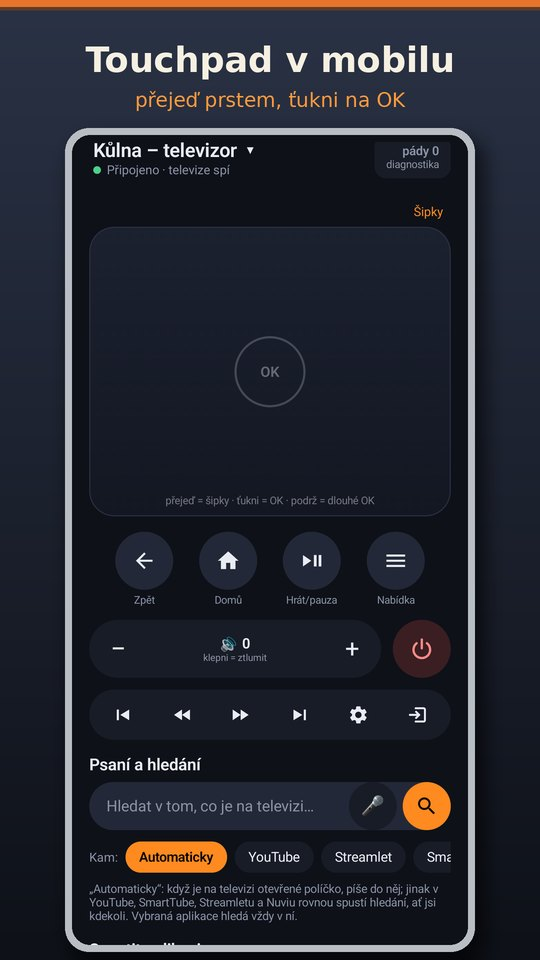
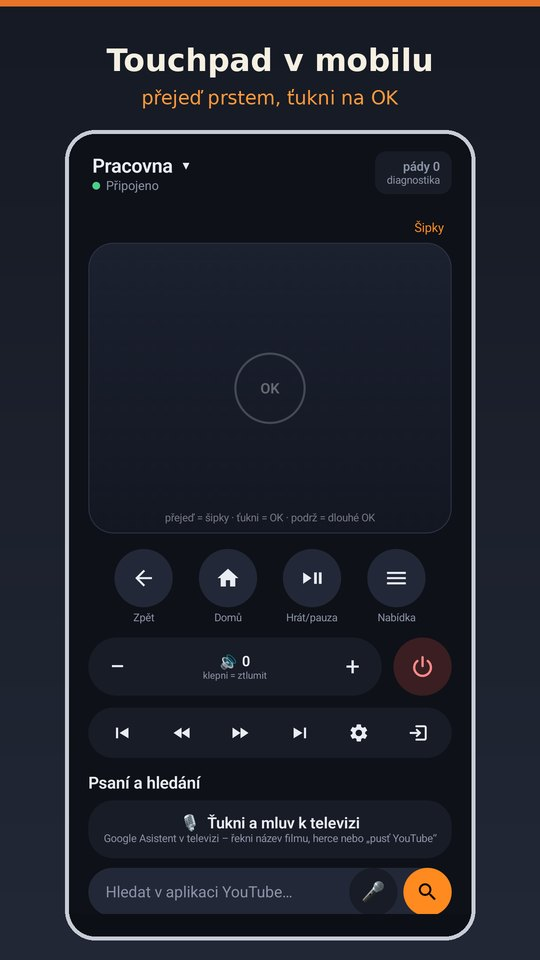
Nove snimky obrazovky z verze 0.38 (bez Streamletu a Nuvia)
Claude-Session: https://claude.ai/code/session_01KJu49yhVo3MkmWoEbwK1KY

diff --git a/index.html b/index.html
@@ -58,7 +58,11 @@
     fungují normálně. Mají ale vlastní klávesnici na obrazovce, kam psaní z mobilu nedosáhne, a hledání z Telky do nich
     neskočí. Hledat v nich proto nejlíp hlasem – <b>Ťukni a mluv</b> a Asistent v televizi to najde.</div>
 
-<!-- snímky: doplní se nové z aktuální verze -->
+  <div class="snimky">
+    <img src="obrazky/snimek-1.jpg" alt="Touchpad v mobilu">
+    <img src="obrazky/snimek-2.jpg" alt="Šipky a všechna tlačítka">
+    <img src="obrazky/snimek-3.jpg" alt="Mluv, piš a hledej">
+  </div>
 
   <h2>Co potřebuješ</h2>
   <ul>
